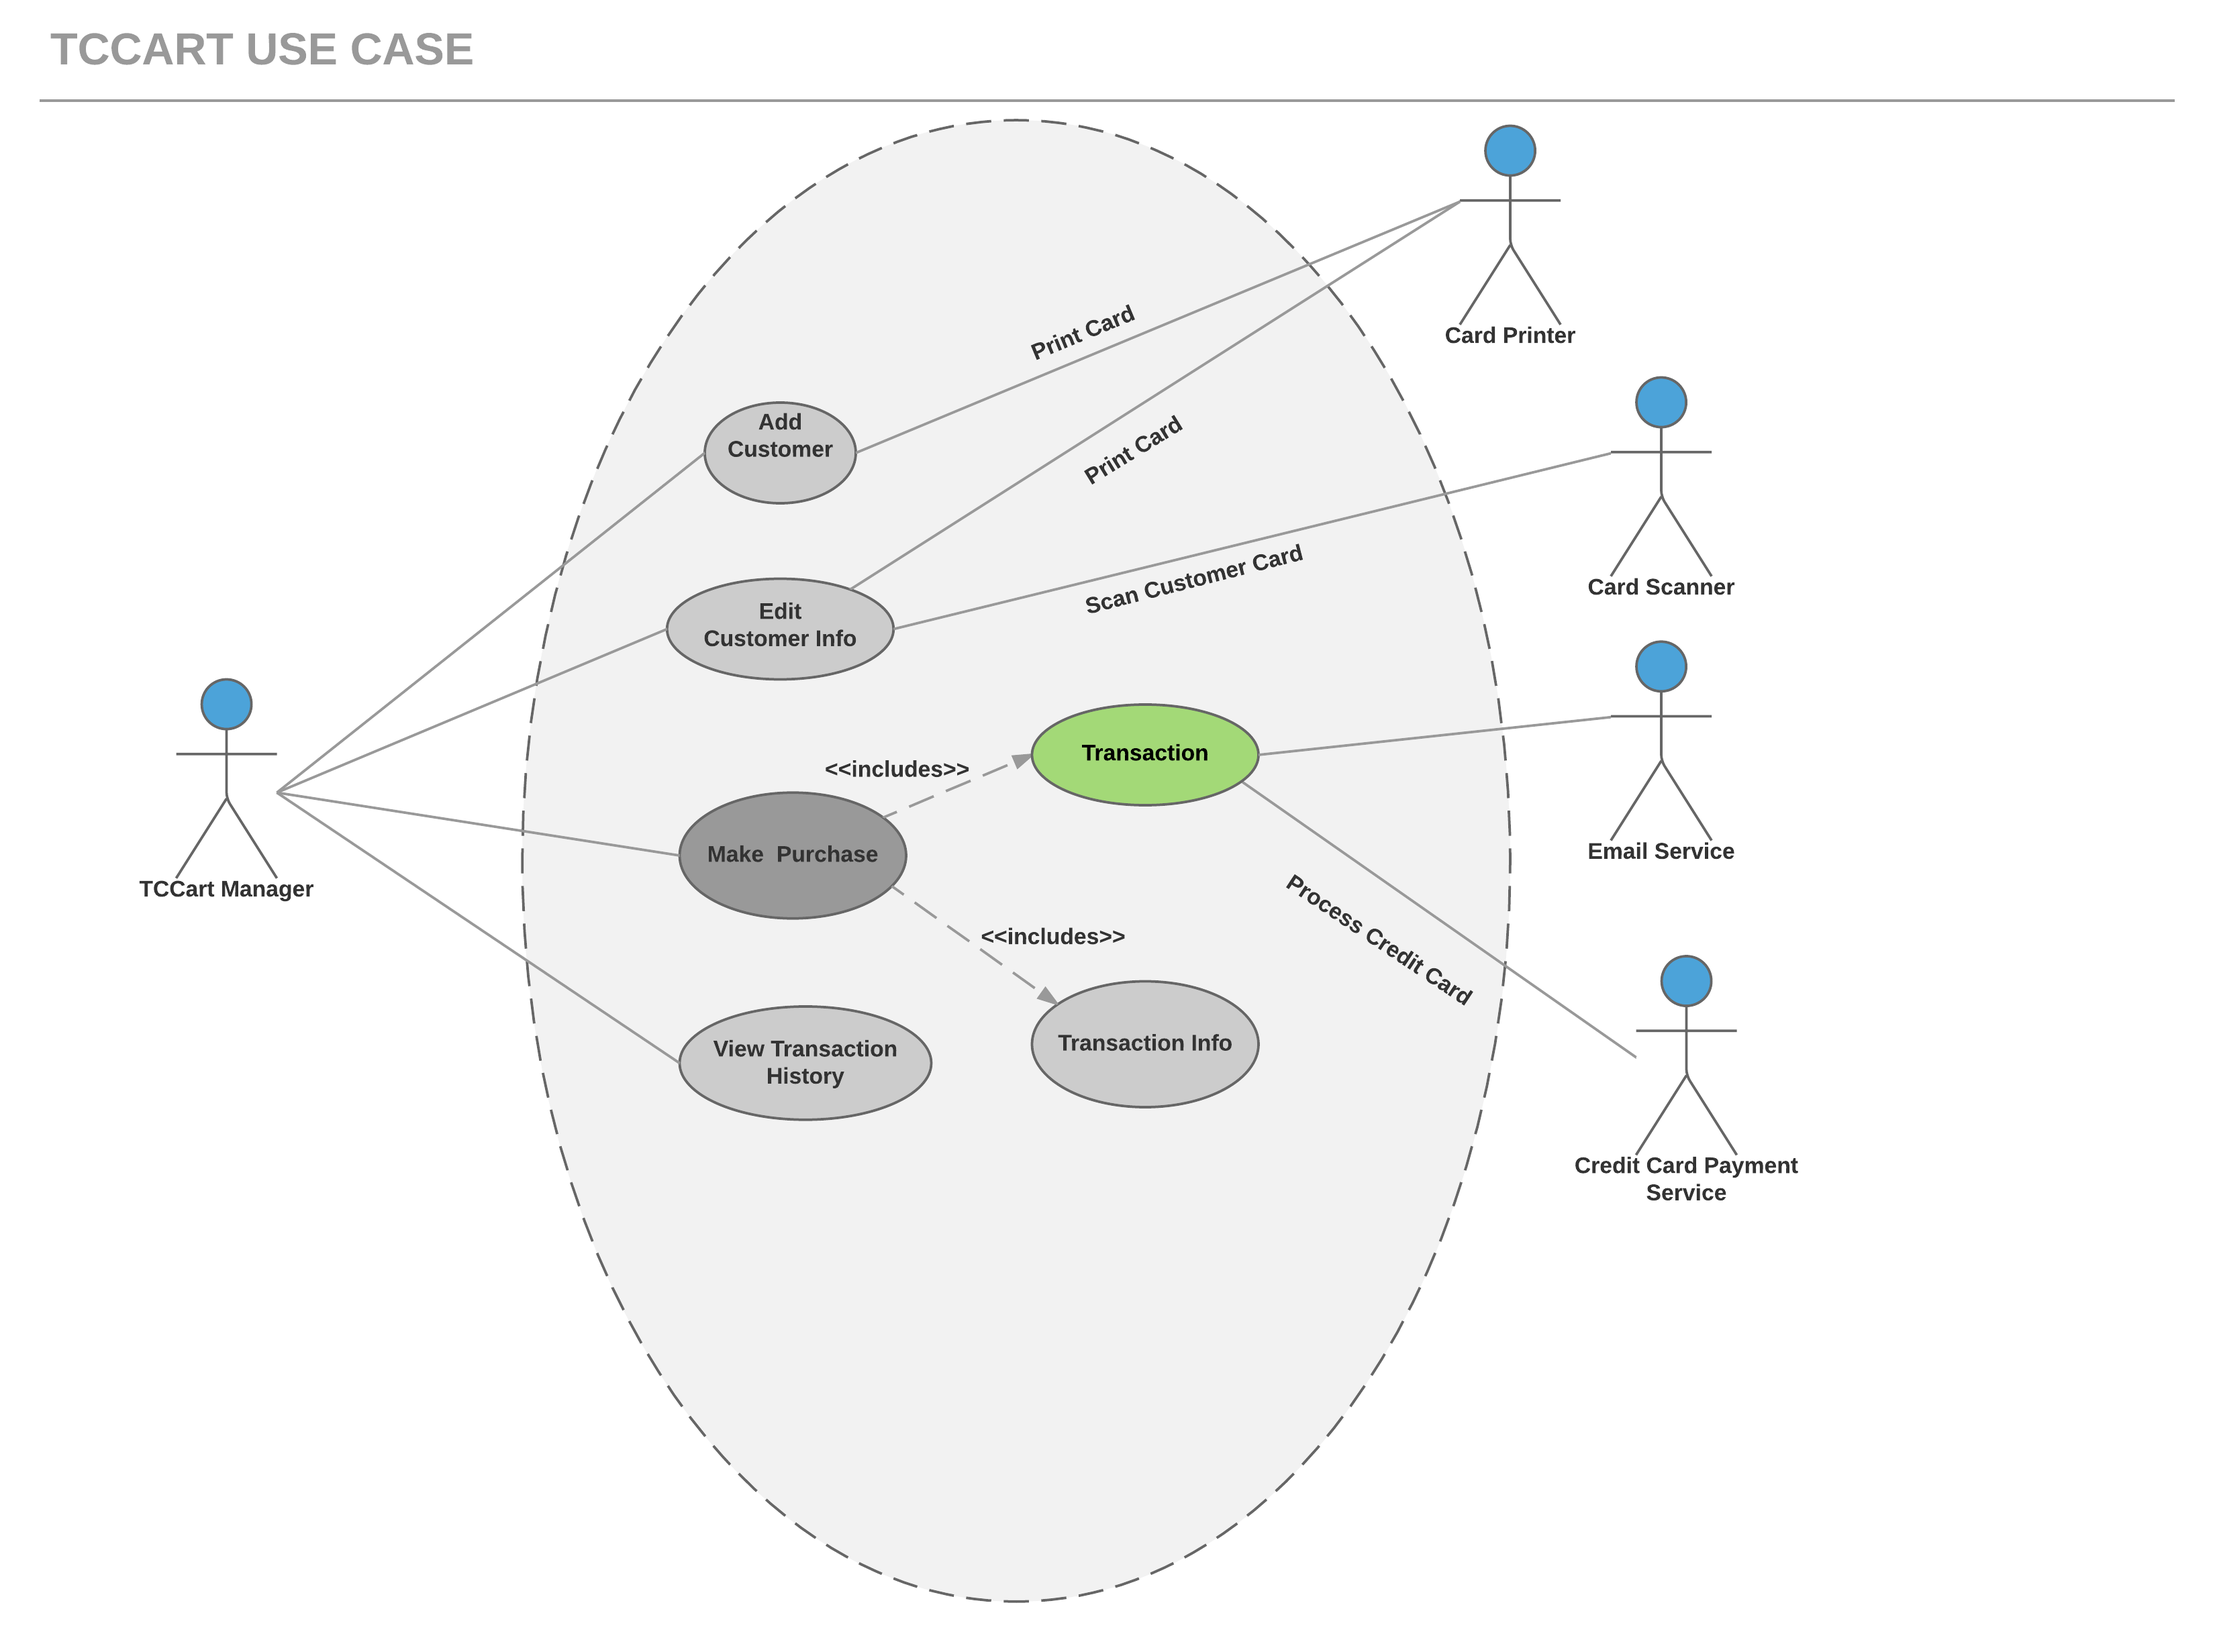
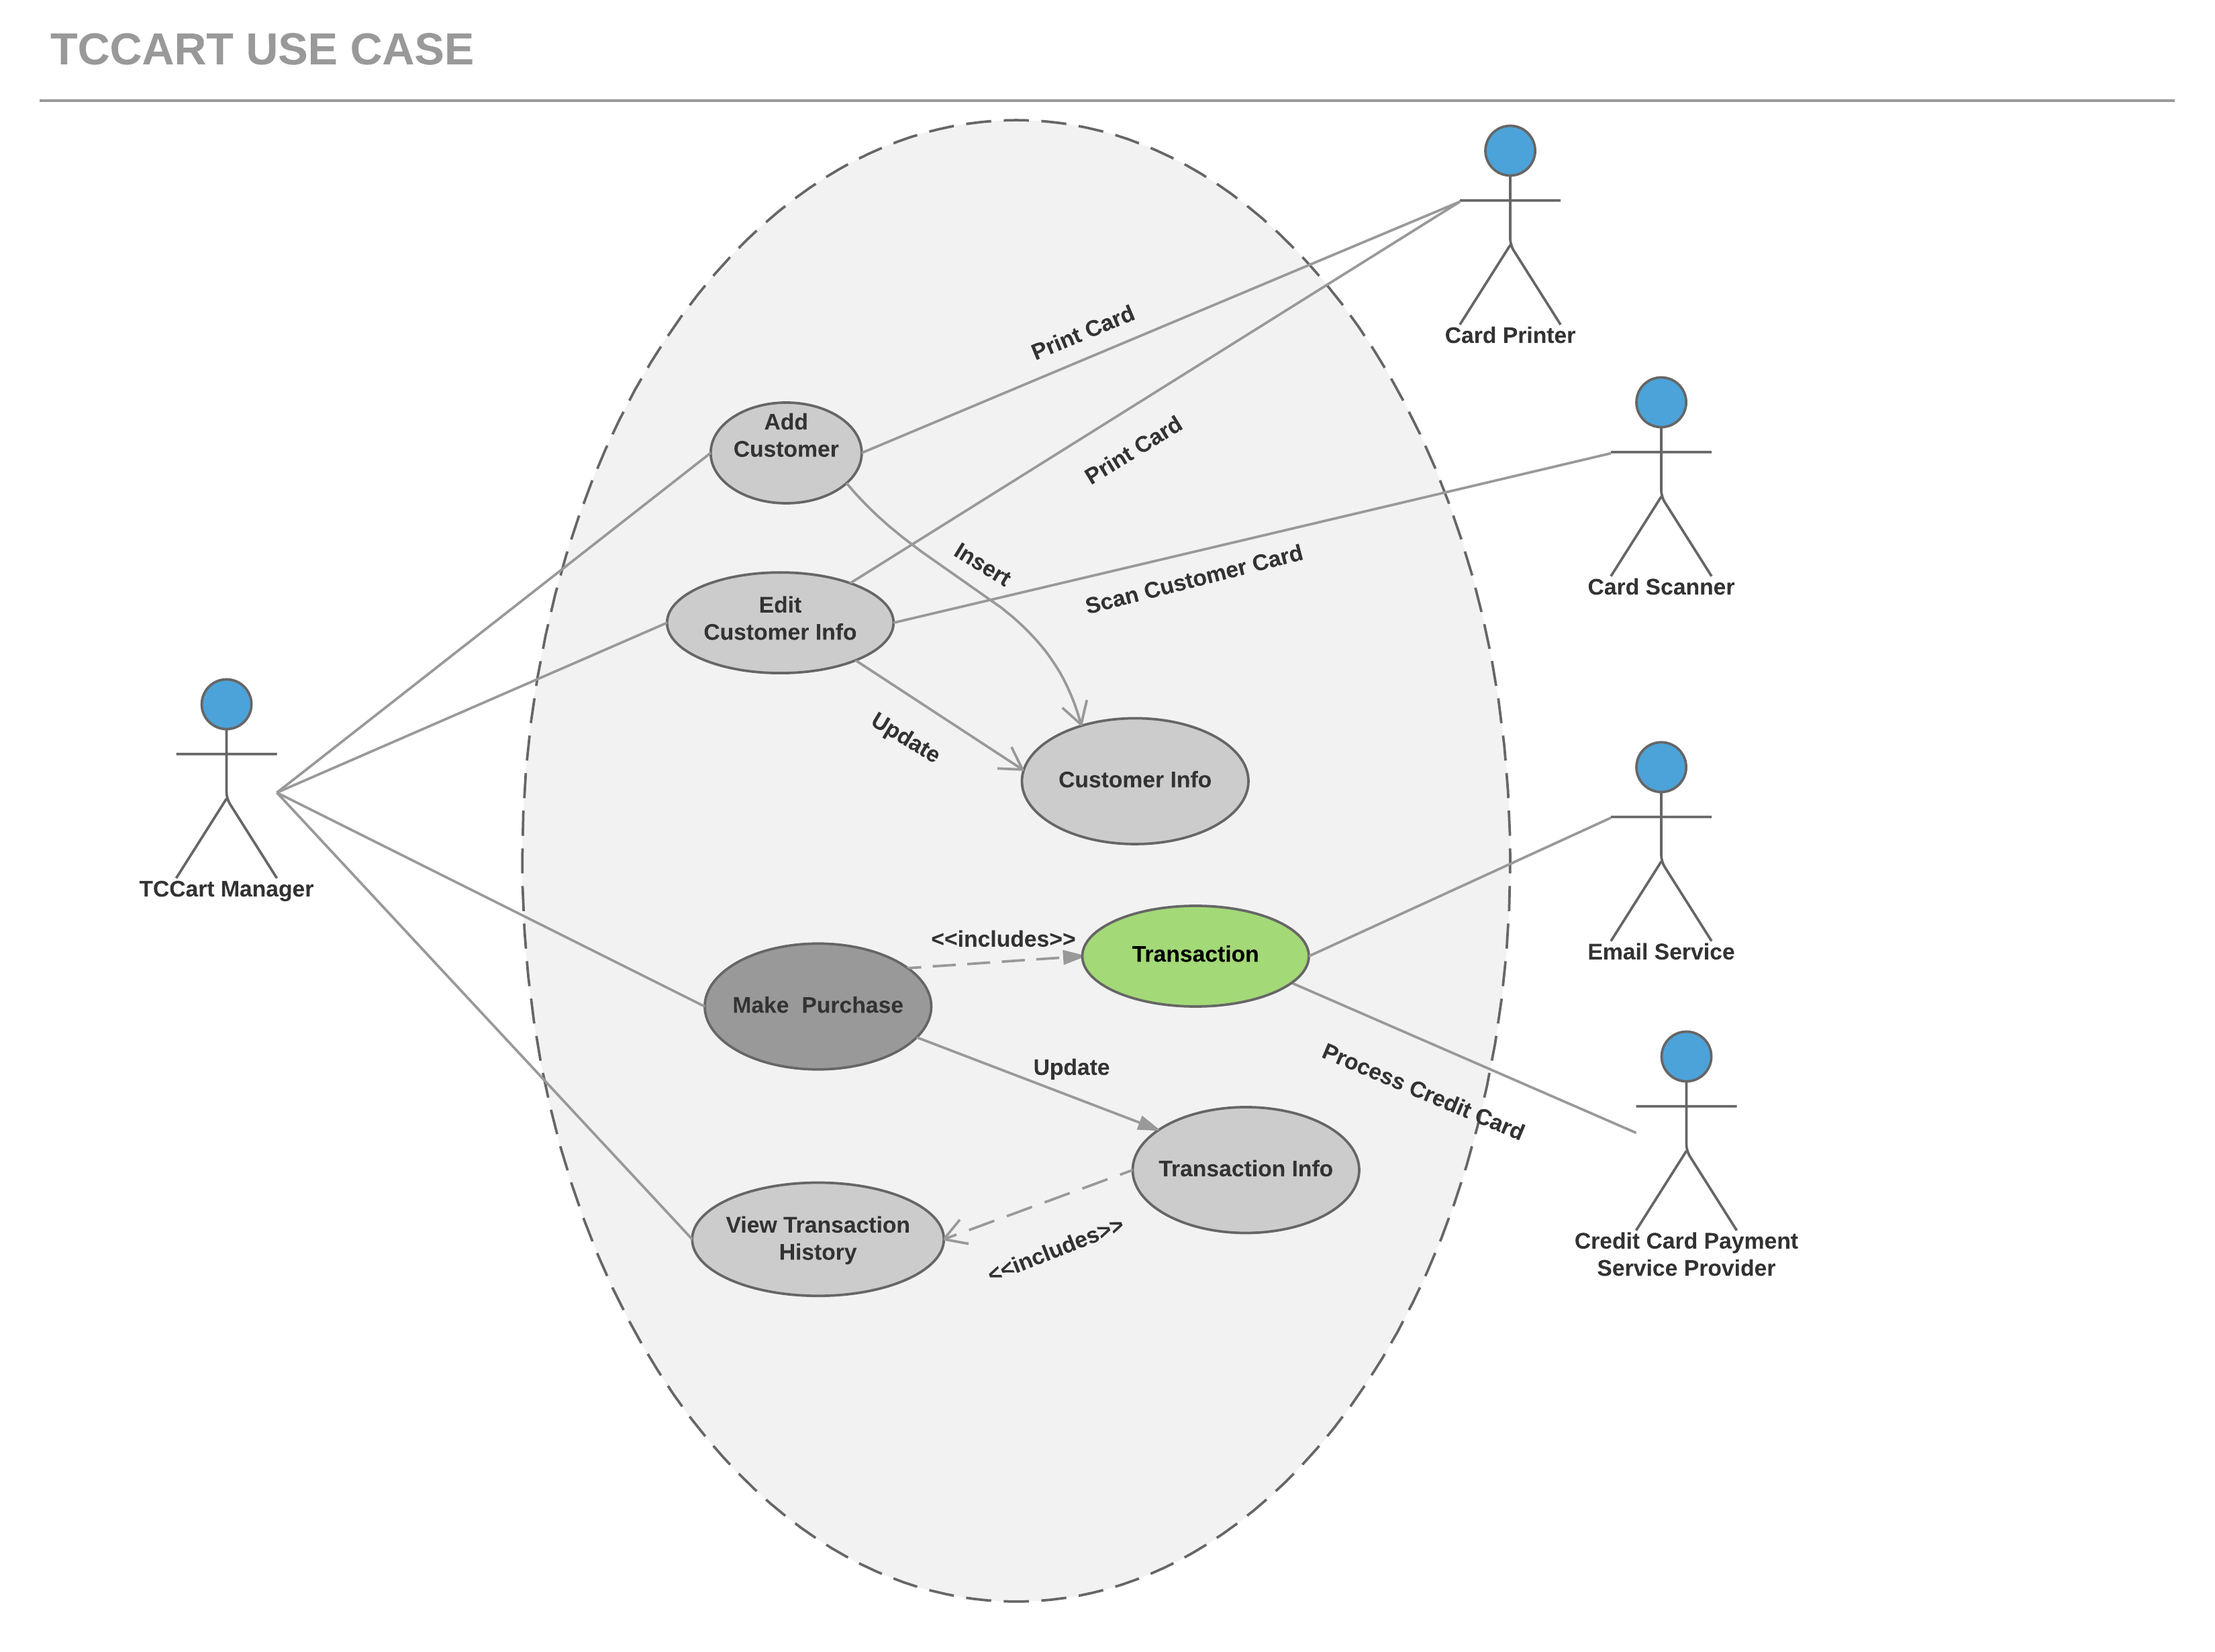
Updated Use Case

diff --git a/Project2/Docs/UseCaseModel.md b/Project2/Docs/UseCaseModel.md
@@ -5,11 +5,11 @@
 | Version | Description     |
 | --------|:---------------:|
 | V1      | Initial version |
-| V2      | Updated Sections 1 based on better understanding of the system |
+| V2      | Updated Sections 1 and 2 based on better understanding of the system |
 
 ## 1 Use Case Diagram
-![Image Text](./TCcart_Use_Case_Diagram.png)
-![enter image description here](https://lh3.googleusercontent.com/QlamoCcggad6xMFo6ov3BvgICVDkFVI429svhMD82LR3-OskDyBRTf1FqgIfWPSQr28=s0 "Transaction - Standard.png")
+![](./TCcart_Use_Case_Diagram.png)
+![](./TCcart_Use_Case_Transaction_Diagram.png)
 
 ## 2 Use Case Descriptions
 
